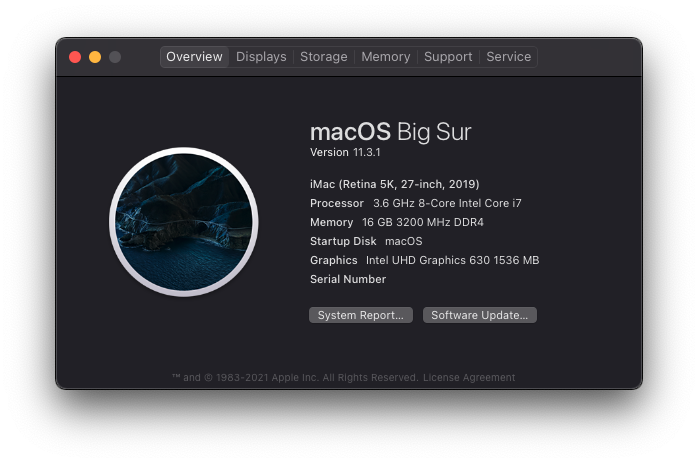
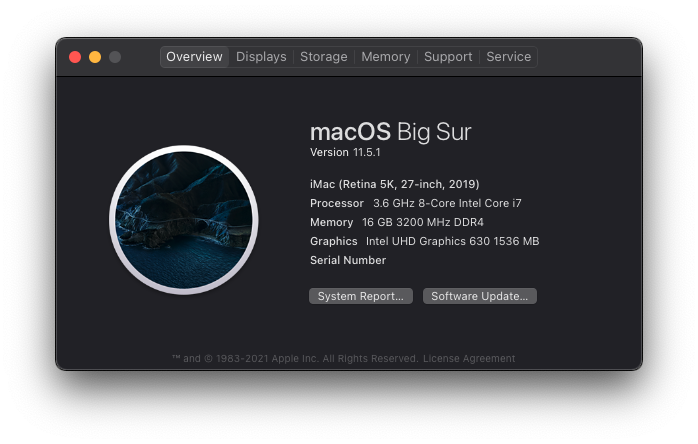
update macOS to 11.5.1

diff --git a/README.md b/README.md
@@ -15,7 +15,7 @@ I'm not responsible for any damage nor will I give support.
 ## Software
 
 - OpenCore: 0.7.2
-- macOS: 11.3.1 (Big Sur)
+- macOS: 11.5.1 (Big Sur)
 
 ## Hardware
 
